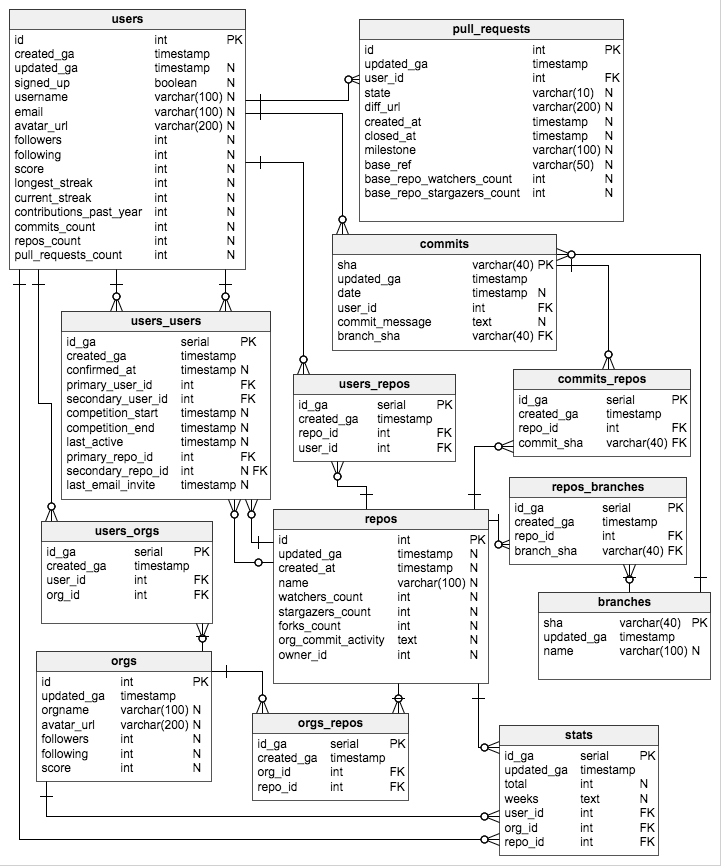
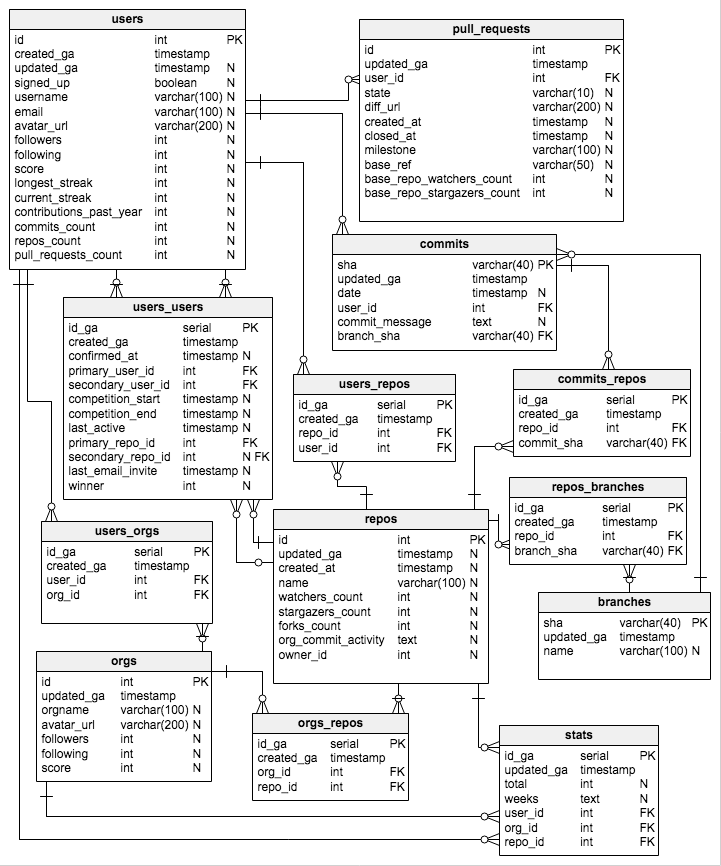
Trying to figure out a way to handle end of competition

Changed region(s): [[0.0305, 0.3118, 0.3967, 0.6236], [0.0305, 0.3118, 0.061, 0.343]]

diff --git a/client/components/countdown.js b/client/components/countdown.js
@@ -2,6 +2,9 @@ import React, { Component } from 'react';
 import { connect } from 'react-redux';
 import { bindActionCreators } from 'redux';
 import actions from './../actions/ActionCreators';
+import axios from 'axios';
+
+const ROOT_URL = require('../../server/config/config-settings').CALLBACKHOST;
 
 class Countdown extends Component {
   constructor(props) {
@@ -23,15 +26,20 @@ class Countdown extends Component {
       mins: mins,
       secs: secs
     };
+    console.log('THIS PROPS', this.props);
   }
 
   componentWillUnmount() {
-    clearInterval(this.decrement);
+    // clearInterval(this.decrement);
   }
 
   update() {
-    if (this.state.time === 0) {
+    if (this.state.time <= 0) {
+
       clearInterval(this.decrement);
+      console.log('hi', hi)
+      // database update users_users table to have winner
+      axios.patch(`${ROOT_URL}/api/v1/users/competitionend`)
     }
     var newTime = this.state.time - 1; // minus one sec from initial time
     var today = new Date();

diff --git a/server/controllers/friendController.js b/server/controllers/friendController.js
@@ -53,11 +53,11 @@ exports.addFriend = function(req, res) {
   const competitionStart = pgp.as.date(new Date(req.body.competitionStart));
   const competitionEnd = pgp.as.date(new Date(req.body.competitionEnd));
   const dbTimestamp = pgp.as.date(new Date());
-
   // check if the secondary user exists
   db.one('SELECT * FROM users WHERE id=($1)',
     secondaryUserId)
     .then(data => {
+
       db.any(
         'SELECT * FROM $1~ AS $2~ ' +
         'WHERE ($2~.$3~ = $4 ' +

diff --git a/client/actions/index.js b/client/actions/index.js
@@ -2,7 +2,7 @@ import axios from 'axios';
 import { browserHistory } from 'react-router';
 import * as types from './actionTypes';
 
-const ROOT_URL = 'http://127.0.0.1:8000';
+const ROOT_URL = require('../../server/config/config-settings').CALLBACKHOST;
 
 export const signoutUser = () => {
   return dispatch => {
